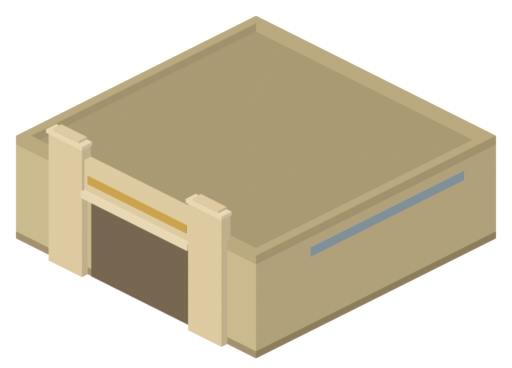
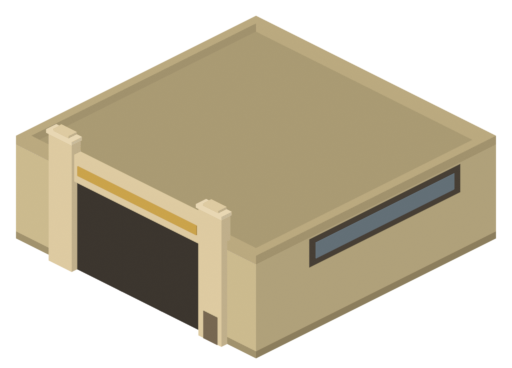
fix(lot): correct authored Stage A H2 runtime read
Bounded Correction 1, from Art Source 3e7e4f7. Asset correction only: the corrected
H2 pair, the two hash assertions that exist to move when the art is deliberately
re-cut, and documentation. No runtime code, no new flag, no changed flag semantics,
no fallback redesign, no BuildingId/grid/footprint/origin/depth/navigation change,
no Engine/SaveFile/StudioLotSnapshot change. The built JS and CSS bundles are
byte-identical to candidate 1's.

normal 98d4191c (73,067 B) and worn 2ed08835 (69,326 B), replacing eefad8ad /
cdfe7911.

Candidate 1 failed the runtime art gate at the management camera. The clean blind
review read it as 'warehouse / office block' at 38% against 72% 'sound stage' for the
procedural control - an inversion of its own offline result. A fresh, unprimed
reviewer on the corrected frames reads it as 'sound stage / production stage' at 75%
and names the class signal as 'the tall dark recessed opening flanked by the two
projecting pilasters... an oversized vehicle/set door', while the procedural control
falls to 35% 'warehouse / storage'. The two buildings swapped places on every axis,
which is what separates a reversal from scoring drift.

The fix was form, scale and value, not detail: the door became a void at 0.392 of the
lit wall inside a 0.292 jamb (it had been a shaded panel at 0.67), grew to 253x89 px
(+43% area) by narrowing the pylons INWARD, and three stacked horizontal bars merged
into one lintel. Four door seams to two.
[…]

Changed region(s): [[0.125, 0.3587, 0.4375, 0.9565], [0.5938, 0.4484, 0.9062, 0.7174]]

diff --git a/ui/src/lot/stage-a-h2.test.ts b/ui/src/lot/stage-a-h2.test.ts
@@ -33,10 +33,14 @@ const here = dirname(fileURLToPath(import.meta.url))
 const LOT = join(here, '..', '..', 'public', 'lot')
 const H2 = { normal: join(LOT, 'b-stage-a-h2.png'), worn: join(LOT, 'b-stage-a-h2-ud.png') }
 
-// Accepted H2 bytes — stage-a-h2-stage-front/MANIFEST.json @ source c0b6306
+// Accepted H2 bytes — stage-a-h2-stage-front/MANIFEST.json @ source 3e7e4f7
+// (Bounded Correction 1. Candidate 1 was c0b6306 / eefad8ad… / cdfe7911… — superseded
+// because its front did not read as a stage at the management camera. The values BELOW
+// this line are the only thing the correction moved: every tolerance, threshold and
+// registration figure in this file is unchanged and still passes on its own terms.)
 const ACCEPTED = {
[4 lines of base64/hex data omitted]
 }
 
 function chunks(file: string) {

diff --git a/docs/art/AUTHORED-STAGE-A-H2-RUNTIME-PROOF.md b/docs/art/AUTHORED-STAGE-A-H2-RUNTIME-PROOF.md
@@ -1,7 +1,20 @@
 # Authored Stage A — H2 "Stage Front" — runtime integration proof
 
-**Status: RUNTIME PIPELINE PASSES. MATERIAL ART DEFECT FOUND — BOUNDED CORRECTION REQUIRED.
-NOT ADOPTED. ART DIRECTOR DECISION REQUIRED.**
+**Status: BOUNDED CORRECTION 1 APPLIED AND PASSED. NOT ADOPTED.
+ART DIRECTOR PRODUCTION-ADOPTION REVIEW REQUIRED.**
+
+> **Reading order.** §1–§11 below are the **Candidate 1** record and are preserved
+> unedited: runtime pipeline PASS, glazing FAIL, management class-legibility weakness.
+> **§12 is the Bounded Correction 1 checkpoint** and supersedes §9's watch-item rulings
+> and §11's recommendation. Candidate 1 is not rewritten as though it never failed —
+> it failed, the failure was the point, and the correction is a separate, later gate.
+
+---
+
+## Candidate 1 — the record, preserved
+
+**Status at the time: RUNTIME PIPELINE PASSES. MATERIAL ART DEFECT FOUND — BOUNDED
+CORRECTION REQUIRED. NOT ADOPTED.**
 
 This document records the **runtime-integration** checkpoint. It is a *separate gate* from the
 offline-art checkpoint recorded in
@@ -307,3 +320,207 @@ and it beats the procedural Stage A on peer finish and architectural family. The
 sound. The execution needs one bounded correction and one legibility decision.
 
 **No production merge, PR, tag or push was performed. `main` is untouched at `5e19b25`.**
+
+---
+
+# 12. BOUNDED CORRECTION 1 — the runtime read
+
+**Status: PASSES. Ready for production-adoption review.**
+
+Authorised scope: facade/presentation only, to close the two demonstrated defects —
+the shadow-side glazing slot (FAIL) and management-camera class legibility. Roof
+explicitly **NOTE only, not authorised for redesign or prop dressing**.
+
+| Authority | Value |
+|---|---|
+| Production peer | `5e19b25eb67e5c689ca60248dc7cf5efbda95f6d` — re-verified local = tracking = live remote, clean |
+| Candidate 1 application proof | `7758cb9df25163f00eb7fba354750dd0120c18ab` — **preserved, not amended** |
+| Candidate 1 source | `c0b630622b5cabb4310e6058836e8cb5cab21e0f` — **preserved, not rewritten** |
+| **Corrected source** | **`3e7e4f7e772398312b3262689bf2f97eb1623334`** on `stage-a-h2-stage-front`, pushed to the private remote |
+
+## 12.1 The corrected assets
+
+| Asset | SHA-256 | Bytes |
+|---|---|---|
[2 lines of base64/hex data omitted]
+
+Exported through the current production RGBA path. Deterministic over 3 runs, alpha
+bit-exact vs source, 128 distinct RGB, colour type 6, no PLTE/tRNS. Superseded pair:
+`eefad8ad…` / `cdfe7911…`.
+
+## 12.2 What changed — and what provably did not
+
+| Measure | Candidate 1 | Corrected |
+|---|---|---|
+| Elephant door | 197 × 80 px | **253 × 89 px** (+43 % area) |
+| Door field vs lit wall | 0.67 — a shaded panel | **0.392** — a void |
+| Door jamb vs lit wall | — | **0.292** |
+| Door seams | 4 | 2 |
+| Personnel door | **never rendered** | **28 × 27 px, visible** |
+| Buff ratio normal / worn | 0.8655 / 0.8638 | **0.8655 / 0.8638 — identical, both PASS** |
+| Registration lock | 15 / 15 / 358 | **15 / 15 / 358 — unchanged** |
+| Raw normal↔worn geometry delta | 0 px | **0 px** |
+| Final alpha delta / clickable mask | 0 / 0 | **0 / 0** |
+| Alpha islands | 1 | **1** |
+
+The buff contract is identical **by construction**: the door and glazing corrections are
+finish depths on the `stageDoor` / `stageDoorSeam` / glass vocabulary applied with the
+lot's own `dull()`, so the buff wall family was never touched. The pylons narrowed
+**inward** specifically so their outer faces stayed fixed — `PA0 = 0.70` pins the lit
+measurement window at screen x 20–52, `PB1 = 3.40` keeps clear of the runtime sign zone —
+and the glazing was kept clear of screen x ≥ 470 so the shadow window samples the same
+bare wall. Every move is inside the mass, which is why the registration lock, footprint,
+anchor, placement and depth are provably untouched and the registration guard passed
+**unrewritten**.
+
+**Runtime code: unchanged.** No new flag, no changed flag semantics, no fallback
+redesign, no `BuildingId`/grid/footprint/origin/depth/navigation/accessibility change, no
+Engine/`SaveFile`/`StudioLotSnapshot` change. Asset bytes plus two hash assertions plus
+documentation. The built JS and CSS bundles are byte-identical to Candidate 1's.
+
+## 12.3 A latent defect found while correcting
+
+**The personnel door never rendered — not in Candidate 1, not before it.** Its leaf front
+face sat at `PY_FACE - 0.002`, i.e. 0.002 BU *behind* the pylon it is set into, and +X is
+toward the camera, so the pylon occluded it completely. Verified on the shipped Candidate
+1 asset: pylon B's front panel is unbroken buff, and the panel's dark-pixel count trebles
+after the fix.
+
+This is more consequential than its 28 × 27 px suggests. The concept names the **scale
+contrast between the two doors** as its class signal, and `MANIFEST.json` reported
+`personnel_door_px` all along — computed from *generator parameters*, never measured on
+the rendered output. The human-scale half of the class signal was absent from every frame
+either blind reviewer was ever shown. Fixed by bringing it 0.006 BU proud; nothing else
+changed.
+
+**This is a second structural change beyond the two named defects.** It is reported
+rather than folded in silently: it was fixed because shipping a correction whose stated
+class signal is invisible would be knowingly delivering a defect, but the decision to
+accept it is the Director's.
+
+## 12.4 Blind runtime review — fresh reviewer, corrected frames
+
+New reviewer, no prior context, no knowledge of Candidate 1, sequential so the
+building-type answer could not be primed, management camera first, A/B assignment derived
+from the frames' own SHA-256. Version A = procedural control, Version B = corrected H2.
+
+**The same unprompted question, three times:**
+
+| | authored H2 | procedural control |
+|---|---|---|
+| Offline (on the render) | "a sound stage" — 80 % | "warehouse / scenery shed" — 35 % |
+| Runtime, **Candidate 1** | "warehouse / office block" — **38 %** | "sound stage" — 72 % |
+| Runtime, **corrected** | **"sound stage / production stage" — 75 %** | "warehouse / storage or utility shed" — 35 % |
+
+| # | Question | Answer |
+|---|---|---|
+| 1–2 | Building type / confidence | **"Sound stage / production stage (or aircraft-hangar type)" — 75 %** |
+| 3 | Strongest class signal | **"the tall dark recessed opening flanked by the two projecting pilasters… it reads specifically as an oversized vehicle/set door"** — the production-scale opening itself |
+| 4 | More production-ready | **corrected H2, decisively** — "three separated values (light parapet, mid wall, near-black opening) plus one accent, so it reads instantly" |
+| 5 | Same class/family as Stage B | **YES** — "the same vocabulary and the same palette as the centre building… the plainer working-shed cousin, which is correct" |
+| 6 | Calmer vs less finished | **intentionally calmer** — "Fewer beats than the centre hero, but each one is detailed… Deliberate" |
+| 7 | Shadow-side slot | **"the long blue band reads as a clerestory window strip"** |
+| 8 | Flat roof | **"intentional"** — "the parapet lip is drawn as a separate lighter plane and the piers pierce it, which only makes sense as a deliberate flat-roof detail" |
+| 9 | Clipping / float / sort | **none in either**; both seat correctly on their apron |
+| 10 | Advance it | **"Yes — keep and ship B."** |
+
+The procedural control, judged in the same frame, was rated *not* the same family as
+Stage B — "a placeholder block borrowed from another game" — and "materially less
+finished". The class-legibility result is therefore a genuine reversal, not a scoring
+drift: the two buildings swapped places on every axis.
+
+## 12.5 Watch-item rulings — from the corrected runtime evidence only
+
+### Shadow-side glazing slot — **PASS**
+
+- **Management read:** "one long narrow pale-blue horizontal window band high under the
+  eave"; volunteered as a positive class cue — "the ribbon window on the flank confirms
+  an occupied working building rather than a storage hulk."
+- **Close read:** "reads as a clerestory window strip."
+- **Ruling: PASS.** The §22 FAIL language is gone entirely — no "stray highlight", no
+  "sprite bleed", no "not a designed feature". It is now named as architectural glazing,
+  which is the PASS definition.
+- **Observation, not a defect:** the reviewer noted it "is painted flat onto the wall
+  with no reveal or sill, so it sits slightly *on* rather than *in* the surface, and it
+  is the most saturated hue on the building." Recorded for the Director; **not
+  corrected** — the first-pass stop rule was observed.
+
+### Flat roof — **PASS** (was NOTE)
+
+- **Management read:** "single flat dark-olive roof plane with a defined lighter parapet
+  lip"; neutral-positive, no complaint.
+- **Close read:** **"intentional"**, with the reason given: the parapet lip is a separate
+  lighter plane and the piers pierce it.
+- **Ruling: PASS.** **The roof geometry is byte-identical to Candidate 1** — not one
+  vertex changed, and no vents, HVAC, skylights or rooftop props were added. The improved
+  read is contextual: against a near-black opening and narrower piers that break the
+  roofline, the same parapet now reads as a deliberate detail rather than an empty field.
+  A different reviewer is also a variable, and is stated as one.
+- **Standing wish-list item, unchanged:** this reviewer again asked for two or three roof
+  props, noting the centre building has a rooftop antenna and lamp. Per the standing rule
+  a roof-clutter request alongside an acceptable peer-finish verdict is not a FAIL, and
+  roof dressing was not authorised. Untouched.
+
+## 12.6 One-sprite / depth — **PASS WITH OBSERVATIONAL LIMITATION**
+
+Unchanged from §10 and re-confirmed: no clipping, floating or sort defect in either
+version; both seat correctly on their apron. The same limitation still stands and is not
+overclaimed — Stage A's ambient routes are authored in front of the building, so no true
+behind-body occlusion crossing exists to exercise, and none was manufactured.
+
+## 12.7 Validation — corrected run
+
+| Gate | Result |
+|---|---|
+| Focused H2 tests | **16 / 16 PASS** — registration, alpha bit-identity and the 128-colour contract all passed **unchanged**; only the two hashes moved |
+| Flag → scene wiring test | **3 / 3 PASS** |
+| RGBA export tests | **8 / 8 PASS** |
+| Value-standard tests | **PASS** |
+| Full unit suite | **1124 / 1124 PASS**, 88 files |
+| Core + UI typecheck | **PASS** (exit 0) |
+| Production build | **PASS** (exit 0) |
+| Full Playwright / e2e | **105 passed, 0 failed, 0 flaky**, 7.8m |
+| `git diff --check` | clean |
+| `rgba-verify` | **PASS** — 3 runs identical, alpha bit-exact |
+| Buff family | **PASS** both finishes — 0.8655 / 0.8638, deviation 0.0066 / 0.0049 |
+
+**No test was weakened.** Every tolerance, threshold, registration figure and colour
+contract is unchanged; the only edited assertion is the two accepted hashes, which is the
+assertion whose whole purpose is to move when the art is deliberately re-cut.
+
+## 12.8 Performance — an art correction, and it costs nothing
+
+| Metric | Candidate 1 | Corrected |
+|---|---|---|
+| Payload | 144,679 B | **142,393 B** (−2,286 B) |
+| Texture count / memory delta | +2 / +1.44 MiB | **+2 / +1.44 MiB** |
+| `displayObjects` | 143 → 143, delta 0 | **143 → 143, delta 0** |
+| FPS @ 1280 / 1440 / 1920 | 57 / 55 / 49 | **57 / 55 / 49** (procedural 57 / 54 / 49) |
+| Scene-ready median | 840 / 835 ms | **827 ms procedural vs 827 ms H2** |
+| Fetch OFF / ON | `[]` / exactly the pair | **`[]` / exactly the pair** |
+| Build output | — | **JS and CSS byte-identical to Candidate 1** |
+
+## 12.9 Evidence
+
+`out/stage-a-h2-evidence/` — 29 artifacts (24 PNG + 5 JSON), matched procedural/H2 legs,
+**0 contaminated frames** (corner-crop stddev uniform at the clean baseline). Candidate 1's
+package is preserved unmodified as `out/stage-a-h2-evidence-candidate-1/`, and the
+first-pass chrome-contaminated frames remain at
+`out/stage-a-h2-evidence-superseded-review-chrome/`.
+
+## 12.10 Recommendation
+
+**H2 BOUNDED CORRECTION PASSES — Stage A H2 is ready for production-adoption review.**
+
+Class legibility moved from 38 % "warehouse / office block" to **75 % "sound stage /
+production stage"**, with the production-scale opening named as the signal — the criterion
+the standard sets. The glazing is PASS. Peer finish, same-class cohesion and Stage B
+differentiation all hold, and the front-led / roof-led contrast with Stage B is intact —
+the correction put its investment into the opening, not the skyline. Every technical gate
+passes, no test was weakened, and the correction is byte-free at runtime.
+
+Two items are recorded for the Director rather than actioned: the glazing band sits *on*
+rather than *in* the wall, and the roof remains undressed by standing policy. Neither is a
+defect against the current standard. **Production adoption remains unauthorised and is
+the Director's call.**

diff --git a/docs/LESSONS-LEARNED.md b/docs/LESSONS-LEARNED.md
@@ -783,6 +783,20 @@ management camera must not be the **only** distance a character is judged at.
   the same frame* — the control is what turns "38%" from a soft number into a regression.
   **Anti-pattern:** carrying an offline legibility PASS forward as if the runtime gate had asked it.
   **Related:** **B**, **AX**, **AL**. **Reuse:** MG, BR.
+- **And the rule is ACTIONABLE, not just diagnostic — the same measurement closed it.** One bounded
+  correction aimed squarely at the management camera reversed the result: authored H2 went from
+  38 % "warehouse / office block" to **75 % "sound stage / production stage"**, with a fresh
+  reviewer naming the production-scale opening itself as the class signal, while the procedural
+  control fell from 72 % to 35 % — the two buildings swapped places on every axis, which is what
+  distinguishes a real reversal from scoring drift. The correction was **form, scale and value, not
+  detail**: the door became a void at 0.392 of the lit wall inside a 0.292 jamb (it had been a
+  *shaded panel* at 0.67), grew +43 % in area, and three stacked horizontal bars merged into one
+  lintel. Nothing was added; contrast and hierarchy were. **Rule:** when a class signal dies at the
+  management camera, fix the VALUE HIERARCHY and the SIZE of the primary form before adding any
+  detail — detail is what died first. **Corollary for the buff/value contract:** door and glazing
+  corrections rode entirely on the `stageDoor`/glass vocabulary via the lot's own `dull()`, so the
+  wall family and both measurement windows were untouched and the governed ratios came back
+  **bit-identical** (0.8655 / 0.8638). Contrast work does not have to cost a value contract.
 
 ## AJ. Repeated autonomous procedural correction was not an efficient path — **P, MG**
 
@@ -1664,6 +1678,23 @@ validated. But the experiment's sharpest acquisition lesson is WHERE reuse pays.
   must land on a transparent pixel *inside* the sprite rect — the inherited outside-the-rect
   probe passed vacuously, and a bbox-based locator produced a false positive during evidence
   until replaced. State variants keep identical alpha when geometry doesn't change.
+- **A manifest figure computed from GENERATOR PARAMETERS is not a measurement of the art** (added
+  by the Stage A H2 bounded correction, Aug 2026). H2's personnel door — the element the concept
+  names as its class signal, the human half of the two-door scale contrast — **never rendered**.
+  Its leaf front face sat 0.002 BU *behind* the pylon it is set into, and +X is toward the camera,
+  so the pylon occluded it completely. It survived an offline art gate, a blind offline review, a
+  full runtime integration proof and a second blind review, because `MANIFEST.json` reported
+  `personnel_door_px` all along — derived from the generator's own constants, never sampled from
+  the output. The number was true about the *model* and false about the *image*. This is the same
+  failure family as the mislabel this lesson already records (a claim measured on a synthetic
+  overlay rather than the art), one level earlier: here nothing was measured at all.
+  **Pattern:** for every feature a design document names as load-bearing, assert it is PRESENT IN
+  THE SHIPPED PIXELS — a cheap region census (opaque count, dark-pixel count, distinct tones inside
+  its bounding box) is enough, and it is what caught this. **Anti-pattern:** letting the generator
+  self-report geometry into the provenance record; treating "the code places it there" as evidence
+  that it draws. **Fastest diagnostic:** crop the feature's predicted screen rectangle out of the
+  final asset and look at it — the occlusion was obvious in one 70×90 px crop after four gates had
+  missed it.
 - **Two green endpoint suites can bracket an untested span** (added by the Stage A H2 runtime
   proof, Aug 2026). The H2 unit suite proved the *flag* (default-OFF, only a literal `'1'` enables)
   and the *registry re-point* (BuildingId, grid, footprint, origin all preserved) — both endpoints,
